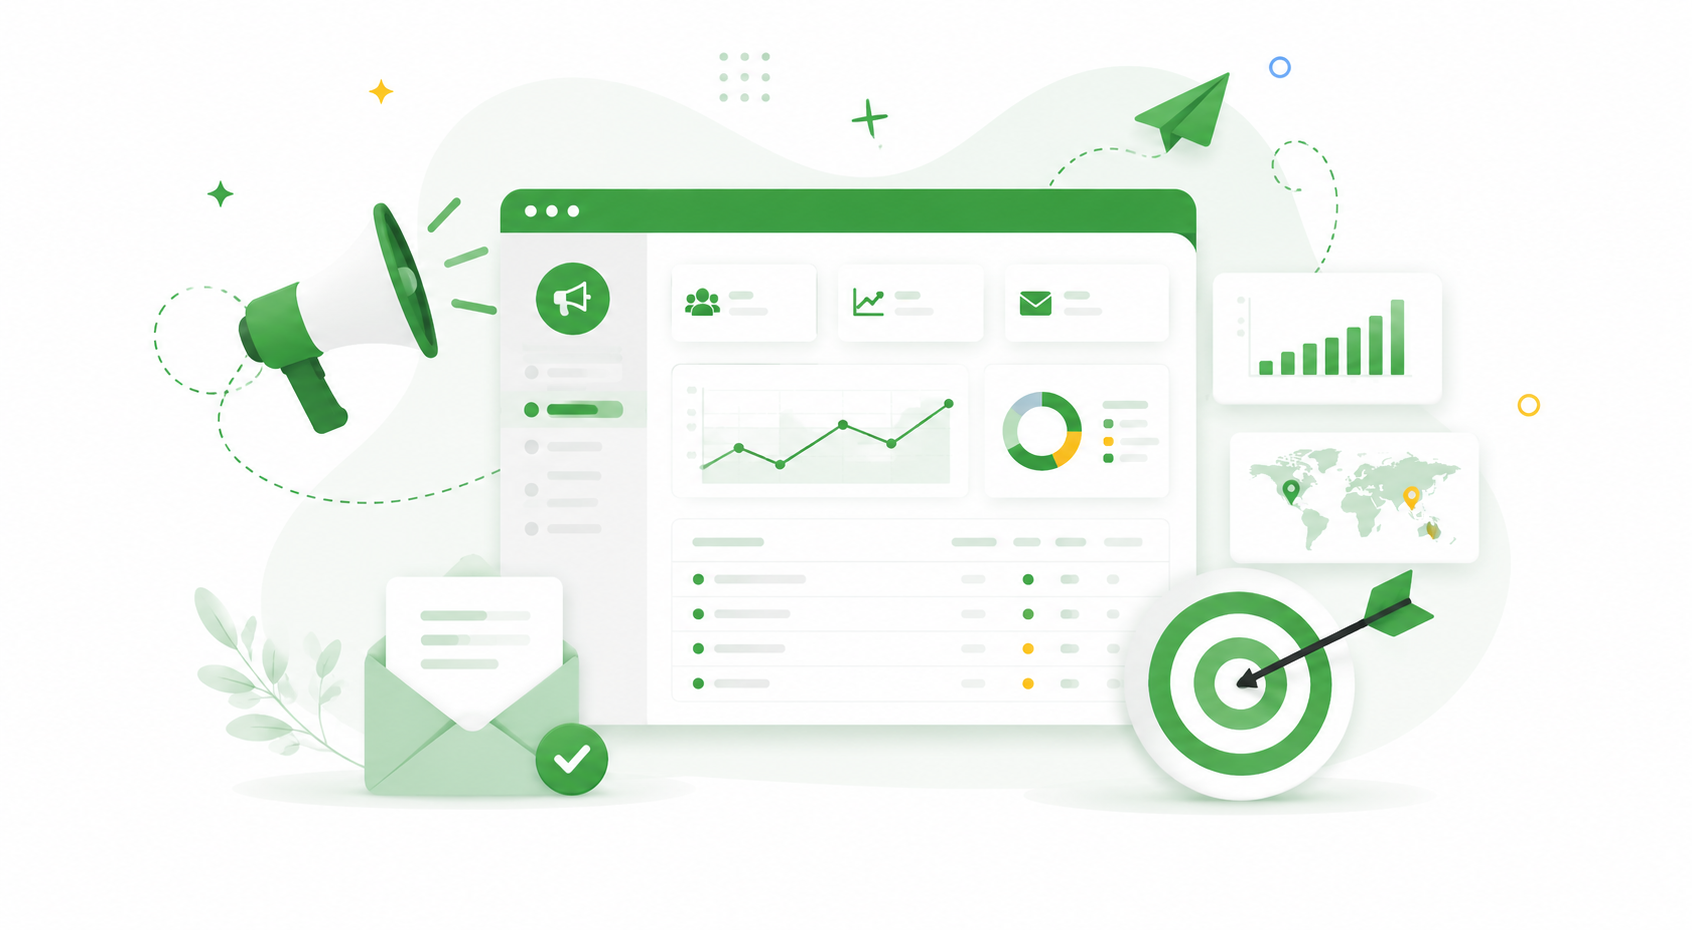
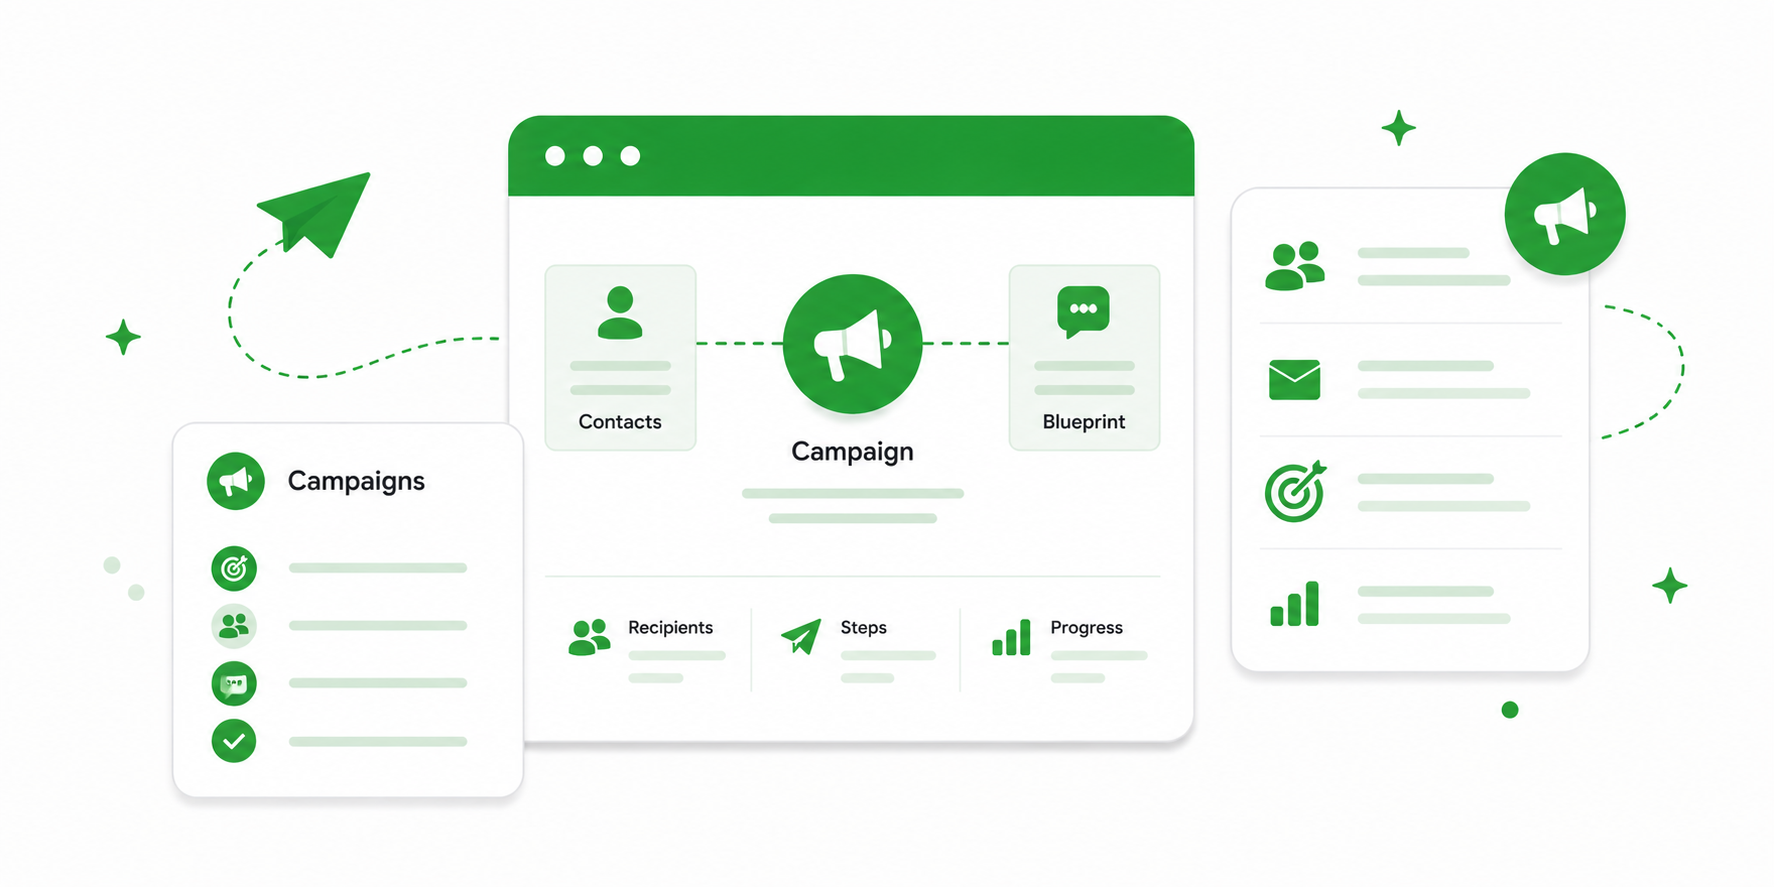
feat: update UI components and styles for improved consistency and usability

diff --git a/src/components/feature/CampaignManagement.tsx b/src/components/feature/CampaignManagement.tsx
@@ -15,6 +15,7 @@ import campaignIllustration from "../../assets/images/campaign-illustration.png"
 import campaignIllustration2 from "../../assets/images/Campgains_old_user.png";
 import { FontAwesomeIcon } from "@fortawesome/react-fontawesome";
 import { faPlay, faArrowUpRightFromSquare } from "@fortawesome/free-solid-svg-icons";
+import PaginationControls from "./PaginationControls";
 import {
   FileText,
   MoreVertical,
@@ -752,21 +753,6 @@ const CampaignManagement: React.FC<CampaignManagementProps> = ({
     </>
   );
 
-  const pageStart =
-    filteredCampaigns.length === 0
-      ? 0
-      : pageSize === "All"
-      ? 1
-      : (currentPage - 1) * pageSize + 1;
-  const pageEnd =
-    pageSize === "All"
-      ? filteredCampaigns.length
-      : Math.min(currentPage * pageSize, filteredCampaigns.length);
-
-  const goToPage = (page: number) => {
-    setCurrentPage(Math.min(Math.max(page, 1), totalPages || 1));
-  };
-
   const closeCampaignVideo = () => {
     campaignVideoRef.current?.pause();
     setShowCampaignVideo(false);
@@ -790,7 +776,7 @@ const CampaignManagement: React.FC<CampaignManagementProps> = ({
                     Choose a blueprint, connect a contact source, and PitchKraft will be ready to kraft personalized outreach.
                   </p>
                   <div className="bp-empty-actions">
-                    <button className="bp-btn-primary" onClick={openCreateCampaignPanel}>
+                    <button className="bp-btn-default" onClick={openCreateCampaignPanel}>
                       <Plus className="h-4 w-4" />
                       Create your first campaign
                     </button>
@@ -843,6 +829,7 @@ const CampaignManagement: React.FC<CampaignManagementProps> = ({
                 }
                 primaryLabel="Create campaign"
                 primaryIcon={<Plus className="h-4 w-4" />}
+                primaryClassName="bp-btn-banner-default"
                 onPrimaryClick={openCreateCampaignPanel}
                 secondaryLabel="Explore best practices"
                 secondaryIcon={<FontAwesomeIcon icon={faArrowUpRightFromSquare} />}
@@ -875,18 +862,18 @@ const CampaignManagement: React.FC<CampaignManagementProps> = ({
                   </button>
                 </div>
 
-                <div className="bp-pagination">
-                  <span>
-                    Showing <strong>{paginatedCampaigns.length}</strong> of {filteredCampaigns.length}
-                  </span>
-                  <div className="bp-pagination__nav">
-                    <button onClick={() => goToPage(1)} disabled={currentPage === 1}>{"<<"}</button>
-                    <button onClick={() => goToPage(currentPage - 1)} disabled={currentPage === 1}>{"<"}</button>
-                    <span className="bp-pagination__page">{currentPage} / {totalPages || 1}</span>
-                    <button onClick={() => goToPage(currentPage + 1)} disabled={currentPage === totalPages}>{">"}</button>
-                    <button onClick={() => goToPage(totalPages)} disabled={currentPage === totalPages}>{">>"}</button>
-                  </div>
-                </div>
+                <PaginationControls
+                  currentPage={currentPage}
+                  totalPages={totalPages}
+                  totalRecords={filteredCampaigns.length}
+                  pageSize={pageSize}
+                  setCurrentPage={setCurrentPage}
+                  setPageSize={(s) => {
+                    setPageSize(s);
+                    setCurrentPage(1);
+                  }}
+                  pageSizeOptions={[10, 25, 50, "All"]}
+                />
               </div>
 
               <div className="bp-rows">
@@ -992,30 +979,6 @@ const CampaignManagement: React.FC<CampaignManagementProps> = ({
                 )}
               </div>
 
-              <div className="bp-tip">
-                Showing {pageStart} to {pageEnd} of {filteredCampaigns.length} campaigns.
-                <select
-                  value={pageSize}
-                  onChange={(e) => {
-                    const value = e.target.value === "All" ? "All" : Number(e.target.value);
-                    setPageSize(value);
-                    setCurrentPage(1);
-                  }}
-                  style={{
-                    marginLeft: 12,
-                    border: "1px solid #dadde2",
-                    borderRadius: 8,
-                    padding: "6px 10px",
-                    background: "#fff",
-                    color: "#374151",
-                  }}
-                >
-                  {[10, 25, 50].map((size) => (
-                    <option key={size} value={size}>{size} / page</option>
-                  ))}
-                  <option value="All">All</option>
-                </select>
-              </div>
             </div>
           </>
         )}
@@ -1160,10 +1123,10 @@ const CampaignManagement: React.FC<CampaignManagementProps> = ({
               type="button"
               onClick={selectedCampaign ? updateCampaign : createCampaign}
               disabled={isCreateDisabled}
-              className={`inline-flex h-10 items-center gap-2 rounded-lg px-5 text-[13.5px] font-semibold shadow-[0_4px_12px_rgba(63,159,66,0.18)] ${
+              className={`inline-flex h-10 items-center gap-2 rounded-lg px-5 text-[13.5px] font-semibold ${
                 isCreateDisabled
-                  ? "cursor-not-allowed bg-[#eef0f3] text-[#9ca3af] shadow-none"
-                  : "bg-[#3f9f42] text-white hover:bg-[#368a39]"
+                  ? "cursor-not-allowed bg-[#eef0f3] text-[#9ca3af]"
+                  : "border border-[#cfecd6] bg-[#e2f1e3] text-[#3f9f42] hover:bg-[#d6ecd9]"
               }`}
             >
               {isLoading

diff --git a/src/components/feature/Output.tsx b/src/components/feature/Output.tsx
@@ -26,7 +26,6 @@ import toggleOff from "../../assets/images/off-button.png";
 import DOMPurify from "dompurify";
 import { faAngleRight, faAngleLeft, faCircleRight, faDownload } from "@fortawesome/free-solid-svg-icons";
 import { FontAwesomeIcon } from "@fortawesome/react-fontawesome";
-import LoadingSpinner from "../common/LoadingSpinner";
 import { faEdit,faTrashAlt,faCircleXmark,faSquarePlus,faBell    } from "@fortawesome/free-regular-svg-icons";
 import{formatDateTimeLocal, formatTimeLocal}from "../common/dateFormatters";
 import { KraftEmailEmptyState, KraftLoadingState, KraftCampaignSelectState } from "./Output.new";
@@ -1694,6 +1693,24 @@ const [isSavingSubject, setIsSavingSubject] = useState(false);
     }
   }, [effectiveUserId, token]);
 
+  // Prepend a timestamped, colored line to the shared output log (the same
+  // "small part" banner used for email generation) so email-send progress and
+  // errors are shown there too.
+  const appendSendLog = (
+    message: string,
+    color: "green" | "red" | "orange" | "blue" = "green",
+  ) => {
+    const now = new Date();
+    const pad = (n: number) => String(n).padStart(2, "0");
+    const stamp = `${pad(now.getDate())}.${pad(now.getMonth() + 1)}.${now.getFullYear()} ${pad(now.getHours())}:${pad(now.getMinutes())}:${pad(now.getSeconds())}`;
+    setOutputForm((prev: any) => ({
+      ...prev,
+      generatedContent:
+        `<span style="color: ${color}">[${stamp}] ${message}</span><br/>` +
+        (prev.generatedContent || ""),
+    }));
+  };
+
   const handleSendEmail = async (
     subjectFromButton: string,
 
@@ -1773,6 +1790,11 @@ const [isSavingSubject, setIsSavingSubject] = useState(false);
 
       toast.success("Email sent successfully!");
 
+      appendSendLog(
+        `Sent email successfully to contact ${currentContact.name || "N/A"} with company name ${currentContact.company || "N/A"} and email address ${currentContact.email || "N/A"}`,
+        "green",
+      );
+
       // Update the contact's email sent status
 
       try {
@@ -1834,6 +1856,12 @@ const [isSavingSubject, setIsSavingSubject] = useState(false);
         setEmailMessage("");
       }, 2000);
     } catch (err) {
+      const failedContact = targetContact || combinedResponses[currentIndex];
+      appendSendLog(
+        `Failed to send email to contact ${failedContact?.name || "N/A"} with company name ${failedContact?.company || "N/A"} and email address ${failedContact?.email || "N/A"}`,
+        "red",
+      );
+
       if (axios.isAxiosError(err)) {
         const errorMessage =
           err.response?.data?.message ||
@@ -2212,6 +2240,11 @@ const sleepWithCountdown = async (ms: number) => {
 
         sentCount++;
 
+        appendSendLog(
+          `Sent email successfully to contact ${contact.name || "N/A"} with company name ${contact.company || "N/A"} and email address ${contact.email || "N/A"}`,
+          "green",
+        );
+
         // UPDATE local state for this contact
 
         const updatedItem = {
@@ -2264,6 +2297,11 @@ const sleepWithCountdown = async (ms: number) => {
         }
       } catch (err) {
         console.error(`Error sending email to ${contact.email}:`, err);
+
+        appendSendLog(
+          `Failed to send email to contact ${contact.name || "N/A"} with company name ${contact.company || "N/A"} and email address ${contact.email || "N/A"}`,
+          "red",
+        );
 
         if (axios.isAxiosError(err)) {
           console.error("API Error:", err.response?.data);
@@ -2965,19 +3003,7 @@ useEffect(() => {
                 </div>
                 {tab2 === "Output" && (
                   <>
-                    <div className="form-group mb-0">
-                      {/* <div className="d-flex mb-10 align-items-center">
-            {userRole === "ADMIN" && (
-              <button
-                className="button clear-button small d-flex align-center"
-                onClick={clearContent}
-              >
-                <span>Clear output</span>
-              </button>
-            )}
-          </div> */}
 
-                    </div>
                     <div className="form-group mb-0 mt-2">
                       <div className="d-flex justify-between w-full">
                         <div
@@ -3008,11 +3034,7 @@ useEffect(() => {
                           </span>
                           {combinedResponses[currentIndex]?.location || "NA"}
                           <span style={{ whiteSpace: "pre" }}> </span>
-                          {/* <span className="inline-block relative top-[6px] mr-[3px]">
-                <svg width="20px" height="20px" viewBox="0 0 24 24" fill="none" xmlns="http://www.w3.org/2000/svg">
-                  <path d="M14 7H16C18.7614 7 21 9.23858 21 12C21 14.7614 18.7614 17 16 17H14M10 7H8C5.23858 7 3 9.23858 3 12C3 14.7614 5.23858 17 8 17H10M8 12H16" stroke="#3f9f42" strokeWidth="2" stroke-linecap="round" stroke-linejoin="round"/>
-                </svg>
-              </span> */}
+
                           <ReactTooltip
                             anchorSelect="#website-icon-tooltip"
                             place="top"
@@ -4527,8 +4549,8 @@ useEffect(() => {
         {...appModal.config}
       />
 
-      {/* Email Sending Loader Modal */}
-      {sendingEmail && <LoadingSpinner message="Sending email..." />}
+      {/* Email sending state is shown inline on the Send button ("Sending...")
+          — no full-screen loader so the rest of the UI stays usable. */}
 
       {/* Notes Modal */}
       {showNotesModal && (

diff --git a/src/components/feature/EmailSignature.tsx b/src/components/feature/EmailSignature.tsx
@@ -340,10 +340,10 @@ const EmailSignature: React.FC<EmailSignatureProps> = ({ selectedClient }) => {
         duration={5}
       />
       <div className="flex justify-between items-center mb-6">
-        <h2 className="text-2xl font-semibold">Email signature</h2>
+        <h2 className="text-2xl font-semibold">Email signatures</h2>
         <button
           onClick={handleAddSignature}
-          className="px-4 py-2 bg-[#3f9f42] text-white rounded-md hover:bg-[#358a38] transition-colors font-medium"
+          className="btn-default"
         >
           Add signature
         </button>
@@ -521,14 +521,14 @@ const EmailSignature: React.FC<EmailSignatureProps> = ({ selectedClient }) => {
           <>
             <button
               onClick={handleClosePanel}
-              className="px-4 py-2 border border-gray-300 rounded-[24px] hover:bg-gray-50 transition-colors font-medium"
+              className="btn-muted"
               disabled={saving}
             >
               Cancel
             </button>
             <button
               onClick={handleSaveSignature}
-              className="px-4 py-2 bg-[#3f9f42] text-white rounded-[24px] hover:bg-[#358a38] transition-colors font-medium disabled:opacity-50 disabled:cursor-not-allowed"
+              className="btn-default"
               disabled={saving}
             >
               {saving ? "Saving..." : isEditMode ? "Update signature" : "Save signature"}
@@ -556,7 +556,7 @@ const EmailSignature: React.FC<EmailSignatureProps> = ({ selectedClient }) => {
           {/* Email Account Dropdown */}
           <div>
             <label className="block text-sm font-medium text-gray-700 mb-2">
-              Select email account <span className="text-red-500">*</span>
+              Email account <span className="text-red-500">*</span>
             </label>
             {loading ? (
               <div className="w-full px-3 py-2 border border-gray-300 rounded-md bg-gray-50 text-gray-500 text-sm">

diff --git a/src/components/feature/blueprint/BpBanner.tsx b/src/components/feature/blueprint/BpBanner.tsx
@@ -5,6 +5,7 @@ interface BpBannerProps {
   subtitle: React.ReactNode;
   primaryLabel: string;
   primaryIcon?: React.ReactNode;
+  primaryClassName?: string;
   onPrimaryClick: () => void;
   secondaryLabel?: string;
   secondaryIcon?: React.ReactNode;
@@ -20,6 +21,7 @@ export const BpBanner: React.FC<BpBannerProps> = ({
   subtitle,
   primaryLabel,
   primaryIcon,
+  primaryClassName = "bp-btn-banner-primary",
   onPrimaryClick,
   secondaryLabel,
   secondaryIcon,
@@ -34,7 +36,7 @@ export const BpBanner: React.FC<BpBannerProps> = ({
           <div className="bp-banner__title">{title}</div>
           <div className="bp-banner__sub">{subtitle}</div>
           <div className="bp-banner__actions">
-            <button className="bp-btn-banner-primary" onClick={onPrimaryClick}>
+            <button className={primaryClassName} onClick={onPrimaryClick}>
               {primaryIcon}
               {primaryLabel}
             </button>

diff --git a/src/components/feature/blueprint/Template.new.css b/src/components/feature/blueprint/Template.new.css
@@ -332,6 +332,22 @@
   transition: background 0.15s;
 }
 .bp-btn-banner-primary:hover { background: var(--bp-brand-d); }
+.bp-btn-banner-default {
+  height: 36px;
+  padding: 0 16px;
+  border-radius: 8px;
+  background: var(--btn-default-bg);
+  color: var(--btn-default-fg);
+  font-size: 13px;
+  font-weight: 600;
+  border: 1px solid var(--btn-default-border);
+  display: inline-flex;
+  align-items: center;
+  gap: 7px;
+  cursor: pointer;
+  transition: background 0.15s;
+}
+.bp-btn-banner-default:hover { background: var(--btn-default-bg-hover); }
 .bp-btn-banner-ghost {
   height: 36px;
   padding: 0 14px;

diff --git a/src/components/feature/Tracking.tsx b/src/components/feature/Tracking.tsx
@@ -191,7 +191,7 @@ const Tracking: React.FC<TrackingProps> = ({ selectedClient }) => {
               <div>
                 <div className="tracking-row__title">Email tracking</div>
                 <div className="tracking-row__sub">
-                  Track opens and clicks for campaign emails sent to contacts.
+                  Track opens and clicks for emails sent to contacts.
                 </div>
               </div>
             </div>
